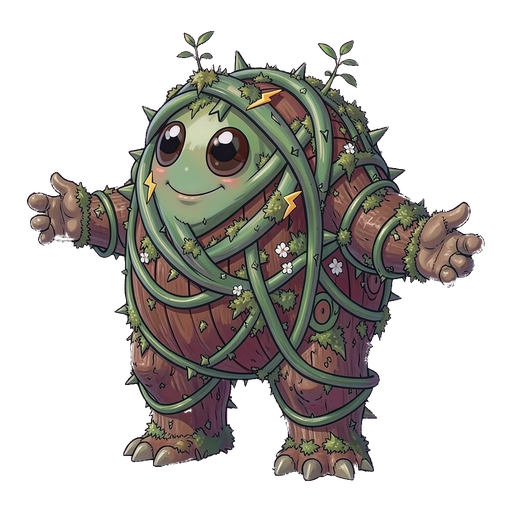
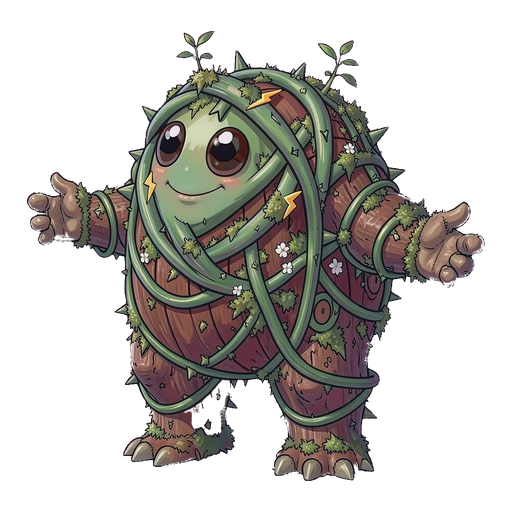
Art: all 24 base species' sprites in the repo; sync Buzzbud rename to JSON
Copies all 72 approved cutouts from D:\AI\sprites\cutouts into src/ui/assets/creatures/ (previously
only Sproutlet, Emberfang, Brambletrundle and Riftsneak were there). No wiring changes needed --
sprites.ts finds any file by name automatically.

Three already-shipped files (brambletrundle-f2/f3, sproutlet-f3) came in slightly different from
what was committed before: under 1% of pixels changed in each, matching the --keep cutout edge
fixes recorded in docs/art-pipeline.md, not a regression.

Also fixes a real, separate bug this surfaced: src/data/species.json and src/data/traits.json still
said 'petalsprocket' after content-data.md was renamed to Buzzbud (the art window updated the doc
but not the JSON). Renamed the id/name/forms/emoji to match content-data.md exactly, and updated
traits.json's signature-trait link. Buzzbud's Form 2 emoji changed from a duplicate bee to a
blossom, since the form-emoji test requires three distinct emoji per creature.

test/sprites.test.ts: four assertions assumed a specific base species (Mossgear, Hushflutter) had
no sprite yet, as a way to exercise the emoji-fallback and no-sprite code paths. Now that all 24
base species have art, swapped those to hybrid ids (Brambletide, Eclipseed), which still have none.

All 855 tests pass; npm run build succeeds.

Changed region(s): [[0.375, 0.7188, 0.4688, 0.875]]

diff --git a/test/sprites.test.ts b/test/sprites.test.ts
@@ -75,7 +75,7 @@ describe('spriteFor', () => {
   })
 
   it('returns null for anything without a sprite: no file yet, an unknown id, or a form out of range', () => {
-    expect(spriteFor('mossgear', 1)).toBeNull()
+    expect(spriteFor('brambletide', 1)).toBeNull()
     expect(spriteFor('ashwood', 2)).toBeNull()
     expect(spriteFor('no-such-creature', 1)).toBeNull()
     expect(spriteFor('', 1)).toBeNull()
@@ -133,7 +133,7 @@ describe('CreatureArt', () => {
   })
 
   it('draws the emoji, hidden from assistive tech, for a creature with no sprite', () => {
-    const view = viewOf('mossgear')
+    const view = viewOf('brambletide')
     const html = renderToStaticMarkup(createElement(CreatureArt, { view }))
     expect(html).not.toContain('<img')
     expect(html).toContain('aria-hidden="true"')
@@ -152,9 +152,9 @@ describe('CreatureArt', () => {
     expect(sprite).toContain(turn)
     expect(sprite).toContain('data-shiny="true"')
     expect(sprite).toContain(`src="${spriteFor('sproutlet', 1)}"`)
-    const mossgear = viewOf('mossgear', { shiny: true })
-    const emoji = renderToStaticMarkup(createElement(CreatureArt, { view: mossgear }))
-    expect(emoji).toContain(`--shiny-hue:${mossgear.shinyHueDeg}deg`)
+    const brambletide = viewOf('brambletide', { shiny: true })
+    const emoji = renderToStaticMarkup(createElement(CreatureArt, { view: brambletide }))
+    expect(emoji).toContain(`--shiny-hue:${brambletide.shinyHueDeg}deg`)
     expect(emoji).toContain('data-shiny="true"')
     const plain = renderToStaticMarkup(createElement(CreatureArt, { view: viewOf('sproutlet') }))
     expect(plain).toContain('data-shiny="false"')
@@ -165,9 +165,9 @@ describe('CreatureArt', () => {
 
 describe('CreatureArt, shiny hue per type', () => {
   it('a Void shiny is turned by the Void type 270 (sprite and emoji), the others by the tuned value', () => {
-    // Riftsneak has a sprite; Hushflutter has none, so it draws its emoji
+    // Riftsneak has a sprite; Eclipseed (a hybrid) has none, so it draws its emoji
     expect(spriteFor('riftsneak', 1)).not.toBeNull()
-    expect(spriteFor('hushflutter', 1)).toBeNull()
+    expect(spriteFor('eclipseed', 1)).toBeNull()
     for (const [id, want] of [['riftsneak', 270], ['hushflutter', 270], ['sproutlet', 150], ['emberfang', 150], ['eclipseed', 270], ['ashwood', 150]] as const) {
       const html = renderToStaticMarkup(createElement(CreatureArt, { view: viewOf(id, { shiny: true }) }))
       expect(html, id).toContain(`--shiny-hue:${want}deg`)
